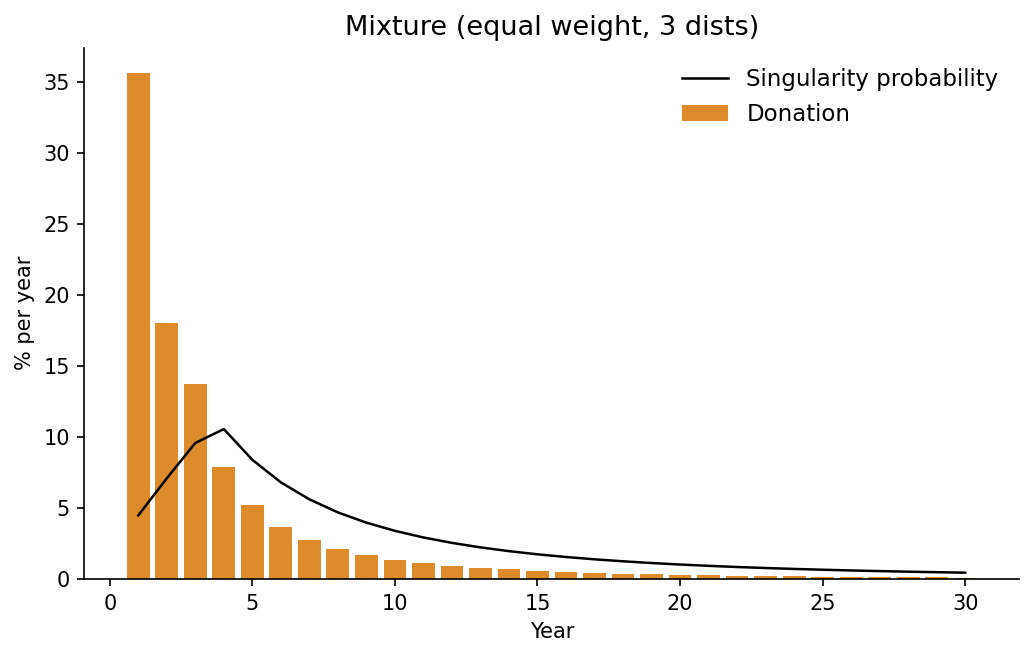
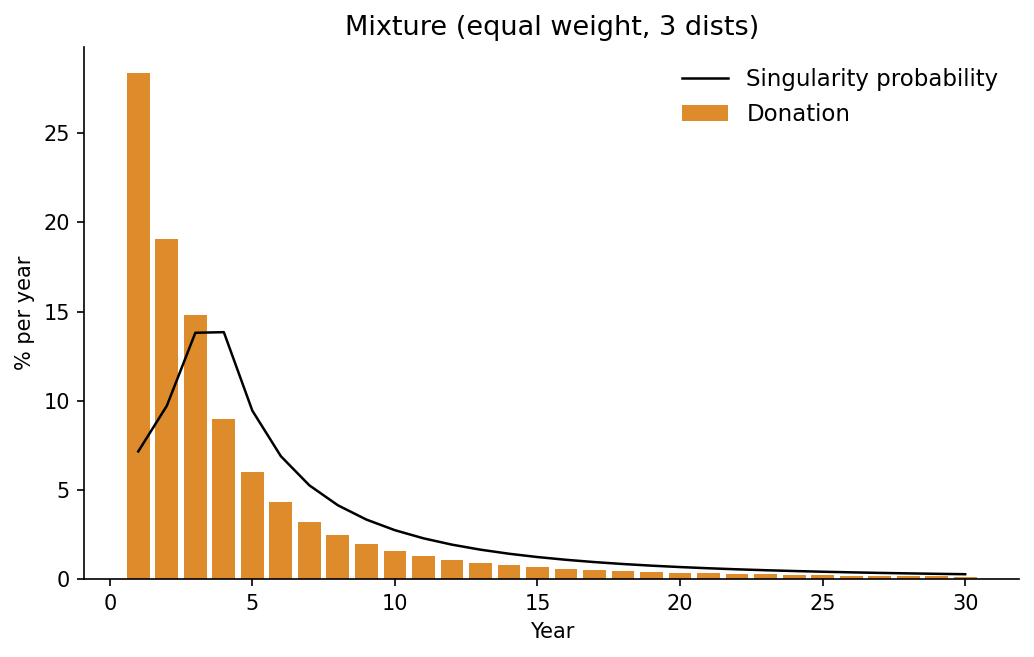
update ai_now_later_discrete and donation_schedule

diff --git a/ai_now_later_discrete.py b/ai_now_later_discrete.py
@@ -9,6 +9,8 @@ Created: 2025-09-12
 """
 
 import matplotlib.pyplot as plt
+import numpy as np
+from matplotlib.ticker import MultipleLocator, PercentFormatter
 from scipy.optimize import curve_fit
 
 
@@ -16,11 +18,10 @@ def assert_sums_to_1(probs):
     assert sum(probs.values()) > 0.999 and sum(probs.values()) < 1.001
 
 
-def spending_schedule(years_to_AGI, takeoff_years):
+def spending_schedule(years_until_point_of_no_return):
     """
     temporary (?) simplifications:
 
-    - ignore takeoff_years
     - all money goes to x-risk
     - the best spending schedule (given a worldview) is to equally distribute across all years
     - money takes zero time to deploy once it's spent
@@ -29,8 +30,8 @@ def spending_schedule(years_to_AGI, takeoff_years):
     - money is allocated to worldviews proportional to credence
     """
     spending_per_year = [0 for _ in range(100)]
-    for k in years_to_AGI:
-        weight = years_to_AGI[k]
+    for k in years_until_point_of_no_return:
+        weight = years_until_point_of_no_return[k]
         spending = 1 / k
         for i in range(k):
             spending_per_year[i] += spending * weight
@@ -38,54 +39,137 @@ def spending_schedule(years_to_AGI, takeoff_years):
     return spending_per_year
 
 
-years_to_AGI = {
-    5: 0.2,
-    10: 0.25,
-    15: 0.20,
-    20: 0.05,
-    30: 0.10,
-    50: 0.10,
-    100: 0.10,
-}
-
-takeoff_years = {
-    0.1: 0.3,
-    0.5: 0.1,
-    1: 0.1,
+years_until_point_of_no_return = {
     2: 0.1,
     3: 0.1,
-    4: 0.1,
-    6: 0.1,
-    10: 0.05,
+    5: 0.3,
+    10: 0.25,
+    15: 0.05,
     20: 0.05,
+    50: 0.15,
 }
 
-assert_sums_to_1(years_to_AGI)
-assert_sums_to_1(takeoff_years)
+assert_sums_to_1(years_until_point_of_no_return)
 
-spending = spending_schedule(years_to_AGI, takeoff_years)
-
-
-# fit spending to a power law
-def func_power_law(x, c0, c, m):
-    return c0 + c * x**m
+spending = spending_schedule(years_until_point_of_no_return)
 
 
-X = list(range(100))
-current_year = 2025
-popt, pcov = curve_fit(func_power_law, X, spending)
-print(f"Optimal fit: {popt[0]:.2f} + {popt[1]:.2f} x^{popt[2]:.2f}")
-print("\nFirst 20 years:")
+# Fit spending to a power law plus a lognormal bump: the lognormal captures the
+# near-term peak, the power law captures the long tail.
+def func_hybrid(x, c, m, a, mu, s):
+    return c * x**m + a * np.exp(-((np.log(x) - mu) ** 2) / (2 * s**2)) / x
+
+
+def func_pareto(x, c, m, a, mu, s):
+    return c * x**m
+
+
+def func_lognormal(x, c, m, a, mu, s):
+    return a * np.exp(-((np.log(x) - mu) ** 2) / (2 * s**2)) / x
+
+"""Customizable parameters"""
+func_to_fit = func_lognormal
+x_max = 10
+
+X = np.arange(100) + 0.5
+y = np.array(spending)
+current_year = 2026
+popt, pcov = curve_fit(
+    func_to_fit,
+    X,
+    y,
+    p0=[0.05, -1, 0.2, 1, 0.7],
+    bounds=([0, -10, 0, -3, 0.05], [10, 0, 10, 6, 5]),
+    maxfev=20000,
+)
+c, m, a, mu, s = popt
+r_squared = 1 - np.sum((y - func_to_fit(X, *popt)) ** 2) / np.sum((y - y.mean()) ** 2)
+if func_to_fit == func_hybrid:
+    print(
+        f"Best fit: {c:.3f} x^{m:.2f} + {a:.3f} exp(-(ln x - {mu:.2f})^2 / (2 * {s:.2f}^2)) / x"
+    )
+elif func_to_fit == func_pareto:
+    print(
+        f"Best fit: {c:.3f} x^{m:.2f}"
+    )
+elif func_to_fit == func_lognormal:
+    print(
+        f"Best fit: {a} * exp(-(ln x - {mu:.2f})^2 / (2 * {s:.2f}^2)) / x"
+    )
+
+if func_to_fit != func_pareto:
+    print(f"\tlognormal peak median: {np.exp(mu):.1f} years")
+print(f"\tR^2 = {r_squared:.3f}")
+
+# Smoothed schedule: each year's amount comes from the fitted curve. The fit
+# doesn't sum to exactly 100% over the horizon, so rescale it to spend the
+# whole budget.
+fitted = func_to_fit(X, *popt)
+fit_scale = 1 / fitted.sum()
+smoothed = fitted * fit_scale
+
+print("\nFirst 20 years:\n\t      original\t\tsmoothed")
 money_left = 1
+smoothed_left = 1
 for i in range(20):
     money_left -= spending[i]
-    print(f"\t{current_year + i:4d}: {spending[i] * 100:.1f}%  ->  {money_left * 100:.0f}%")
+    smoothed_left -= smoothed[i]
+    print(
+        f"\t{current_year + i:4d}: {spending[i] * 100:4.1f}%  ->  {money_left * 100:3.0f}%"
+        f"\t{smoothed[i] * 100:4.1f}%  ->  {smoothed_left * 100:3.0f}%"
+    )
 
-plt.figure(figsize=(10, 6))
-plt.plot(spending)
-plt.plot(X, func_power_law(X, *popt))
-plt.title("Spending Schedule")
-plt.xlabel("Years from Now")
-plt.ylabel("Relative Spending")
-plt.grid()
+FIT_LABELS = {
+    func_hybrid: "Power law + lognormal fit",
+    func_pareto: "Power law fit",
+    func_lognormal: "Lognormal fit",
+}
+# Start at the first fitted point; the power-law term blows up as x -> 0.
+x_fine = np.linspace(X[0], x_max, 1000)
+
+
+# Graphing stuff, mainly written by Claude Opus 5.5
+def plot_schedule(schedule, schedule_label, curve_scale, title, filename=None):
+    fig, ax = plt.subplots(figsize=(10, 6))
+    ax.stairs(schedule, np.arange(101), fill=True, color="#2563eb", alpha=0.25)
+    ax.stairs(schedule, np.arange(101), color="#2563eb", linewidth=1.5, label=schedule_label)
+    ax.plot(
+        x_fine,
+        curve_scale * func_to_fit(x_fine, *popt),
+        color="#dc2626",
+        linewidth=2,
+        label=f"{FIT_LABELS[func_to_fit]} (R² = {r_squared:.2f})",
+    )
+    ax.xaxis.set_major_locator(MultipleLocator(max(1, x_max // 10)))
+    ax.yaxis.set_major_formatter(PercentFormatter(xmax=1))
+    ax.set_xlim(0, x_max)
+    ax.set_ylim(0, None)
+    ax.set_title(title, fontsize=14)
+    ax.set_xlabel("Years from now")
+    ax.set_ylabel("Share of starting budget spent per year")
+    ax.grid(alpha=0.3)
+    ax.spines[["top", "right"]].set_visible(False)
+    ax.legend(frameon=False, fontsize=11)
+    unspent = 1 - schedule[: int(x_max)].sum()
+    if unspent > 0.0005:
+        ax.text(
+            0.98,
+            0.6,
+            f"Unspent after year {x_max}: {unspent * 100:.1f}%",
+            transform=ax.transAxes,
+            ha="right",
+            fontsize=11,
+            color="#374151",
+            bbox=dict(boxstyle="round,pad=0.4", facecolor="white", edgecolor="#d1d5db"),
+        )
+    fig.tight_layout()
+    if filename:
+        plt.savefig(filename, dpi=150, bbox_inches="tight")
+
+
+plot_schedule(y, "Spending schedule", 1, "Spending Schedule")
+plot_schedule(
+    smoothed, "Smoothed spending schedule", fit_scale, "Spending Schedule (Smoothed)",
+    filename="images/ai_now_later_discrete.png"
+)
 plt.show()

diff --git a/donation_schedule.py b/donation_schedule.py
@@ -1,9 +1,11 @@
-"""AI safety donation schedule calculator with uncertain AI timelines
+"""
+AI safety donation schedule calculator with uncertain AI timelines
 ==================================================================
 
 Created 2026-03-21.
 
-Primarily written by Claude Opus 4.6 and 4.7. Docstring by Michael Dickens.
+Primarily written by Claude Opus 4.6 and 4.7. This docstring was written by
+Michael Dickens.
 
 The basic concept: I want to donate an equal amount of money every year from
 now until the singularity. But I don't know when the singularity will happen.
@@ -23,8 +25,9 @@ The analytic solution for the annual donation amount is given by
     D(T) = integral from T to infinity of 1/t * f(t) dt
 
 where f(t) is the probability density of the singularity occurring at time t.
-Claude used this to derive the analytic solutions for Pareto and log-normal
-distributions.
+Claude used this to derive the analytic solution for the log-normal
+distribution. The Pareto case is integrated numerically, because the shifted
+Pareto needed to match a given median has no elementary closed form.
 
 To customize the inputs (your timeline beliefs and distribution shape
 parameters), edit the CONFIGURATION block below.
@@ -48,7 +51,7 @@ YEARS = 30
 # singularity happens before this year, and 50% chance after.
 # Example: if you think there's a 50/50 chance of singularity by 2033,
 # and it's currently 2026, set this to 7.
-MEDIAN_TIMELINE = 7
+MEDIAN_TIMELINE = 5
 
 # ---- Pareto distribution settings ----
 # Pareto is a "heavy-tailed" distribution: it puts a lot of probability
@@ -78,15 +81,29 @@ LOGNORMAL_SIGMA = 1.0
 # ============================================================
 
 
+import os
+
 import numpy as np
 from scipy import stats
+
+
+def make_dist(dist, **p):
+    if dist == "pareto":
+        # Shifted Pareto with support starting at t_min, scaled so its median
+        # equals p["median"].
+        scale = (p["median"] - p["t_min"]) / (2 ** (1 / p["alpha"]) - 1)
+        return stats.pareto(b=p["alpha"], loc=p["t_min"] - scale, scale=scale)
+    elif dist == "lognormal":
+        return stats.lognorm(s=p["sigma"], scale=np.exp(p["mu"]))
 
 
 def donation_schedule(dist="pareto", years=30, **p):
     t = np.arange(1, years + 1, dtype=float)
     if dist == "pareto":
-        a, tm = p["alpha"], p["t_min"]
-        d = np.where(t >= tm, a * tm**a / ((a + 1) * t ** (a + 1)), a / ((a + 1) * tm))
+        # D(T) = E[1/X; X > T]. The shifted Pareto has no elementary closed
+        # form for this, so integrate numerically.
+        d_obj = make_dist("pareto", **p)
+        d = np.array([d_obj.expect(lambda x: 1 / x, lb=max(ti, p["t_min"])) for ti in t])
     elif dist == "lognormal":
         mu, s = p["mu"], p["sigma"]
         d = np.exp(-mu + s**2 / 2) * stats.norm.sf((np.log(t) - (mu - s**2)) / s)
@@ -166,18 +183,16 @@ if __name__ == "__main__":
             f"PARETO_MIN_YEAR ({PARETO_MIN_YEAR}). The median can't be earlier "
             f"than the earliest possible year."
         )
-    if PARETO_ALPHA <= 1:
-        raise ValueError(
-            f"PARETO_ALPHA ({PARETO_ALPHA}) must be greater than 1, otherwise "
-            f"the distribution has infinite mean and the math breaks."
-        )
+    if PARETO_ALPHA <= 0:
+        raise ValueError(f"PARETO_ALPHA ({PARETO_ALPHA}) must be positive.")
+    os.makedirs("images", exist_ok=True)
 
     cases = [
         # Put other cases here, if desired
         (
-            f"Pareto(median=7, min=1, α=1)",
+            f"Pareto(median={MEDIAN_TIMELINE}, min=1, α=1)",
             "pareto",
-            dict(alpha=1, t_min=1, median=7),
+            dict(alpha=1, t_min=1, median=MEDIAN_TIMELINE),
         ),
         (
             f"Pareto(median={MEDIAN_TIMELINE}, min={PARETO_MIN_YEAR}, α={PARETO_ALPHA})",
@@ -194,14 +209,7 @@ if __name__ == "__main__":
     scenarios = []
     mixture_components = []
     for title, dist, params in cases:
-        if dist == "pareto":
-            scale = (params["median"] - params["t_min"]) / (
-                2 ** (1 / params["alpha"]) - 1
-            )
-            loc = params["t_min"] - scale
-            d = stats.pareto(b=params["alpha"], loc=loc, scale=scale)
-        elif dist == "lognormal":
-            d = stats.lognorm(s=params["sigma"], scale=np.exp(params["mu"]))
+        d = make_dist(dist, **params)
 
         # sanity-check that median matches MEDIAN_TIMELINE
         mean, median = d.mean(), d.median()
